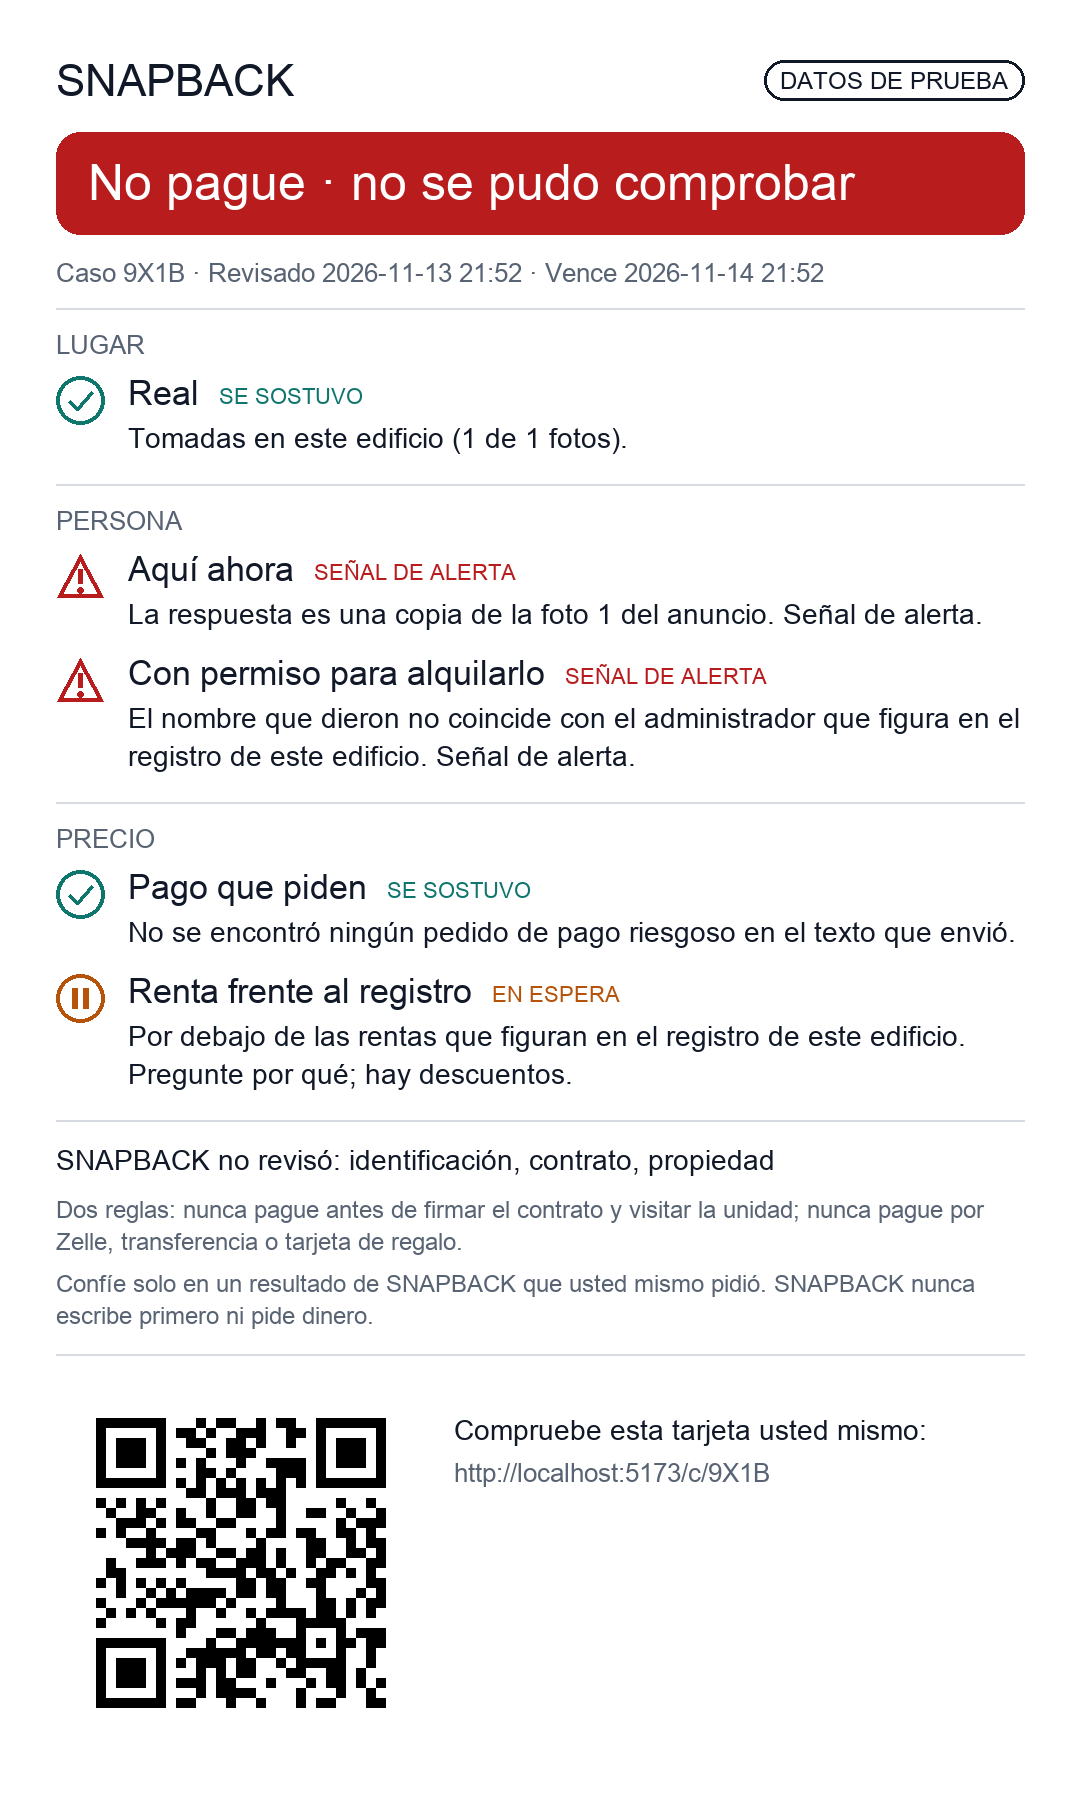
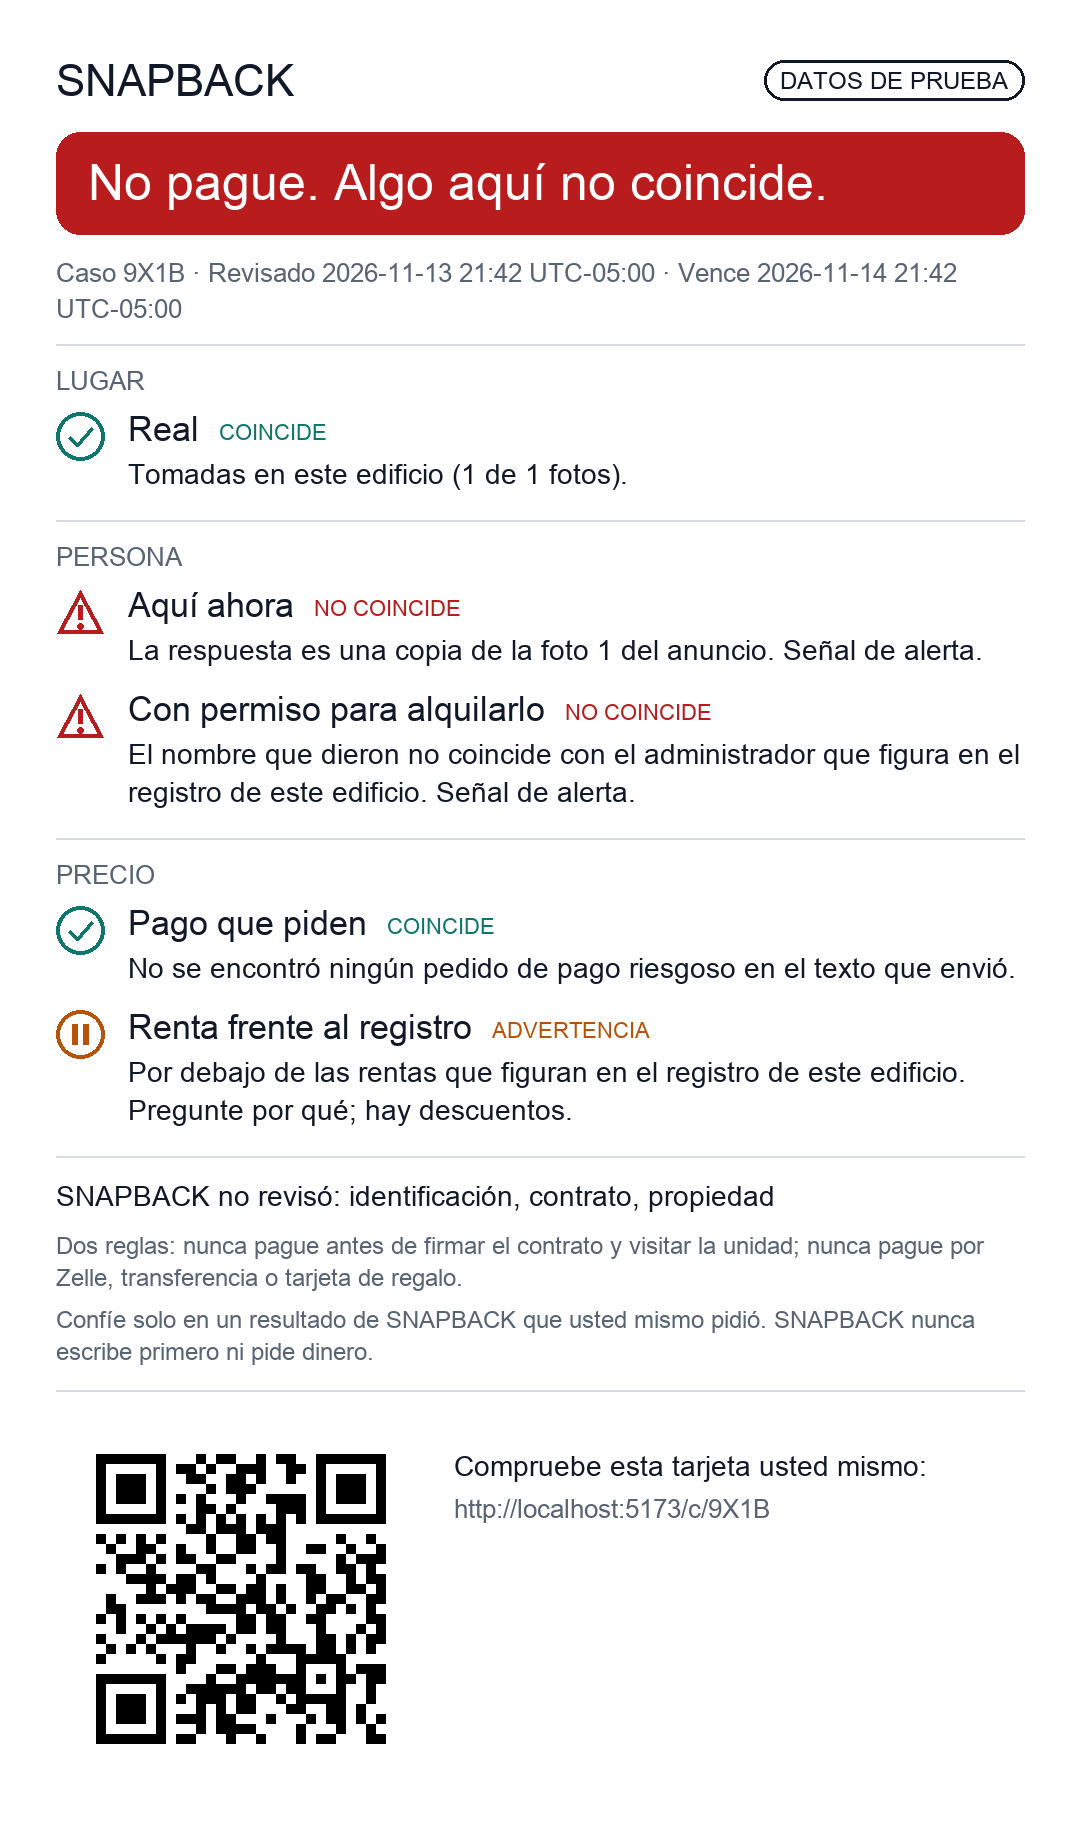
A6: locked card wording for row states and headlines; card time names its zone
- Row states: Matches, Doesn't match, Not confirmed, Warning, Not checked. Headlines: Hold
  off for now / Don't pay. Something here doesn't match. / Checks passed. Still follow the
  two rules. English and Spanish.
- strings.tone_word(tone, row) picks the row state: a red flag is a Warning on the PRICE row
  and Doesn't match elsewhere; a hold is Not confirmed on the PERSON row and a Warning
  elsewhere. So no reply yet is never labelled a mismatch.
- The card's times carry their zone. Both screenshots redrawn from the fixtures.

diff --git a/tests/test_card_render.py b/tests/test_card_render.py
@@ -5,6 +5,7 @@ import json
 import re
 from datetime import datetime
 from pathlib import Path
+from zoneinfo import ZoneInfo
 
 import pytest
 from PIL import Image
@@ -20,7 +21,7 @@ from snapback.card.render import (
     render_card_png,
     wrap,
 )
-from snapback.contracts import Card, CardTone, ModuleEvidence, VerdictState
+from snapback.contracts import Card, CardRowKind, CardTone, ModuleEvidence, VerdictState
 from snapback.verdict import build_card
 
 FIXTURES = Path(__file__).resolve().parent.parent / "fixtures" / "contracts"
@@ -128,6 +129,83 @@ def test_every_tone_has_an_icon_and_a_word_in_both_languages():
     for lang in ("en", "es"):
         words = [strings.text(f"tone.{tone.value}", lang) for tone in CardTone]
         assert len(set(words)) == len(CardTone)
+
+
+LOCKED_ROW_STATES = {"Matches", "Doesn't match", "Not confirmed", "Warning", "Not checked"}
+LOCKED_HEADLINES = {
+    VerdictState.HOLD: "Hold off for now",
+    VerdictState.DONT_PAY: "Don't pay. Something here doesn't match.",
+    VerdictState.VERIFIED: "Checks passed. Still follow the two rules.",
+}
+BEFORE_THE_LOCK = ("Held up", "On hold", "Not shown", "Checks held up", "could not verify")
+
+
+def test_row_states_and_headlines_use_the_locked_wording():
+    # Decisions Fri 22:40, XO review of #59. These words are not to be reworded.
+    for state, words in LOCKED_HEADLINES.items():
+        assert strings.text(f"state.{state.value}") == words
+    said = {strings.tone_word(tone.value, row.value) for tone in CardTone for row in CardRowKind}
+    assert said == LOCKED_ROW_STATES
+    for key, words in strings.TABLES["en"].items():
+        if key.startswith(("tone.", "state.")):
+            assert not any(old in words for old in BEFORE_THE_LOCK), key
+            assert words != "Red flag" and words != "Hold", key
+
+
+@pytest.mark.parametrize(
+    ("tone", "row", "word"),
+    [
+        (CardTone.OK, CardRowKind.PLACE, "Matches"),
+        (CardTone.OK, CardRowKind.PRICE, "Matches"),
+        (CardTone.NOT_SHOWN, CardRowKind.PERSON, "Not confirmed"),
+        (CardTone.NOT_CHECKED, CardRowKind.PRICE, "Not checked"),
+        # A red flag that contradicts the listing, against one that is a risky ask.
+        (CardTone.RED_FLAG, CardRowKind.PLACE, "Doesn't match"),
+        (CardTone.RED_FLAG, CardRowKind.PERSON, "Doesn't match"),
+        (CardTone.RED_FLAG, CardRowKind.PRICE, "Warning"),
+        # No reply yet is nobody's fault: it is not confirmed, and it is not a warning.
+        (CardTone.HOLD, CardRowKind.PERSON, "Not confirmed"),
+        (CardTone.HOLD, CardRowKind.PRICE, "Warning"),
+        (CardTone.HOLD, CardRowKind.PLACE, "Warning"),
+    ],
+)
+def test_the_row_state_follows_the_tone_and_for_two_tones_the_row(tone, row, word):
+    assert strings.tone_word(tone.value, row.value) == word
+
+
+def test_spanish_has_a_row_state_for_everything_english_does():
+    for tone in CardTone:
+        for row in CardRowKind:
+            english = strings.tone_word(tone.value, row.value, "en")
+            spanish = strings.tone_word(tone.value, row.value, "es")
+            assert spanish and spanish != english
+    same_in_english = {(t, r) for t in CardTone for r in CardRowKind}
+    for first in same_in_english:
+        for second in same_in_english:
+            if strings.tone_word(first[0].value, first[1].value) == strings.tone_word(
+                second[0].value, second[1].value
+            ):
+                assert strings.tone_word(first[0].value, first[1].value, "es") == (
+                    strings.tone_word(second[0].value, second[1].value, "es")
+                )
+
+
+def test_waiting_for_a_reply_is_never_labelled_a_mismatch_or_a_warning():
+    raw = json.loads((FIXTURES / "module_evidence_hold.json").read_text())
+    waiting = evidence(challenge=raw["challenge"] | {"presence": "waiting"})
+    card = build_card(waiting, checked_at=CHECKED_AT)
+    person = next(row for row in card.rows if row.kind is CardRowKind.PERSON)
+    here_now = person.lines[0]
+    assert here_now.tone is CardTone.HOLD
+    assert strings.tone_word(here_now.tone.value, person.kind.value) == "Not confirmed"
+
+
+def test_the_card_time_names_its_zone():
+    from snapback.card.render import _stamp
+
+    assert _stamp(CHECKED_AT) == "2026-11-13 21:42 UTC-05:00"
+    houston = CHECKED_AT.astimezone(ZoneInfo("America/Chicago"))
+    assert _stamp(houston) == "2026-11-13 20:42 CST"
 
 
 def test_every_state_has_words_in_both_languages():

diff --git a/src/snapback/card/strings.py b/src/snapback/card/strings.py
@@ -183,15 +183,20 @@ EN: dict[str, str] = {
     "row.place": "PLACE",
     "row.person": "PERSON",
     "row.price": "PRICE",
-    "tone.ok": "Held up",
-    "tone.hold": "On hold",
-    "tone.red_flag": "Red flag",
-    "tone.not_shown": "Not shown",
+    # LOCKED wording (decisions Fri 22:40, XO review of #59). Five row states: Matches,
+    # Doesn't match, Not confirmed, Warning, Not checked. Three headlines. Do not reword.
+    # A row state is chosen by `tone_word`: by the line's tone, and for two tones by its row.
+    "tone.ok": "Matches",
+    "tone.hold": "Warning",
+    "tone.hold.person": "Not confirmed",  # no reply yet is not a warning about anyone
+    "tone.red_flag": "Doesn't match",
+    "tone.red_flag.price": "Warning",  # a risky ask is a warning, not a mismatch
+    "tone.not_shown": "Not confirmed",
     "tone.not_checked": "Not checked",
-    "state.hold": "Hold",
-    "state.dont_pay": "Don't pay · could not verify",
+    "state.hold": "Hold off for now",
+    "state.dont_pay": "Don't pay. Something here doesn't match.",
     "state.unverified": "Could not place these photos",
-    "state.verified": "Checks held up",
+    "state.verified": "Checks passed. Still follow the two rules.",
     "card.case": "Case {case_id}",
     "card.checked": "Checked {time}",
     "card.expires": "Expires {time}",
@@ -410,15 +415,18 @@ ES: dict[str, str] = {
     "row.place": "LUGAR",
     "row.person": "PERSONA",
     "row.price": "PRECIO",
-    "tone.ok": "Se sostuvo",
-    "tone.hold": "En espera",
-    "tone.red_flag": "Señal de alerta",
-    "tone.not_shown": "No demostrado",
+    # The locked English wording, in Spanish. Same keys, same rule for choosing a row state.
+    "tone.ok": "Coincide",
+    "tone.hold": "Advertencia",
+    "tone.hold.person": "Sin confirmar",
+    "tone.red_flag": "No coincide",
+    "tone.red_flag.price": "Advertencia",
+    "tone.not_shown": "Sin confirmar",
     "tone.not_checked": "No comprobado",
-    "state.hold": "En espera",
-    "state.dont_pay": "No pague · no se pudo comprobar",
+    "state.hold": "Espere por ahora",
+    "state.dont_pay": "No pague. Algo aquí no coincide.",
     "state.unverified": "No se pudieron ubicar estas fotos",
-    "state.verified": "Las revisiones se sostuvieron",
+    "state.verified": "Las revisiones pasaron. Siga igual las dos reglas.",
     "card.case": "Caso {case_id}",
     "card.checked": "Revisado {time}",
     "card.expires": "Vence {time}",
@@ -442,3 +450,16 @@ def has(key: str, lang: str = DEFAULT_LANG) -> bool:
 def text(key: str, lang: str = DEFAULT_LANG, **values: object) -> str:
     """The wording for `key`, with `{placeholders}` filled in. A missing key is a bug: KeyError."""
     return _table(lang)[key].format(**values)
+
+
+def tone_word(tone: str, row: str, lang: str = DEFAULT_LANG) -> str:
+    """The locked word shown beside a card line: its row state.
+
+    One word per tone, except where the row changes what the tone means. A red flag on the
+    PRICE row is a risky ask ("Warning"); on PLACE or PERSON it is something that contradicts
+    the listing ("Doesn't match"). A hold on the PERSON row is someone not heard from yet
+    ("Not confirmed"); elsewhere it is something to ask about ("Warning"). `tone` and `row`
+    are the values of `CardTone` and `CardRowKind`.
+    """
+    by_row = f"tone.{tone}.{row}"
+    return text(by_row if has(by_row, lang) else f"tone.{tone}", lang)

diff --git a/src/snapback/card/render.py b/src/snapback/card/render.py
@@ -19,6 +19,7 @@ import os
 import unicodedata
 from collections.abc import Callable
 from dataclasses import dataclass
+from datetime import datetime
 from functools import cache
 
 import qrcode
@@ -225,6 +226,12 @@ def _draw_qr(pen: Pen, url: str, left: int, top: int) -> tuple[int, int, int]:
     return origin_x, origin_y, len(matrix) * QR_MODULE
 
 
+def _stamp(moment: datetime) -> str:
+    """A time with the zone it is in, so a card read in another city is not misread."""
+    zone = moment.tzname()
+    return moment.strftime("%Y-%m-%d %H:%M") + (f" {zone}" if zone else "")
+
+
 def render_card(card: Card) -> RenderedCard:
     lang = card.lang
 
@@ -259,15 +266,11 @@ def render_card(card: Card) -> RenderedCard:
     y += band_height + 24
 
     # Case id and how long the card stands.
-    stamp = "%Y-%m-%d %H:%M"
     meta = "   ·   ".join(
         [
             say("card.case", case_id=card.case_id),
-            say("card.checked", time=card.checked_at.strftime(stamp)),
-            say(
-                "card.expires",
-                time=card.expires_at.astimezone(card.checked_at.tzinfo).strftime(stamp),
-            ),
+            say("card.checked", time=_stamp(card.checked_at)),
+            say("card.expires", time=_stamp(card.expires_at.astimezone(card.checked_at.tzinfo))),
         ]
     )
     y = _paragraph(pen, meta, 26, MUTED, MARGIN, y, CONTENT) + 14
@@ -284,7 +287,8 @@ def render_card(card: Card) -> RenderedCard:
             label = drawable(item.label)
             pen.text((TEXT_LEFT, y - 2), label, fill=INK, font=_font(34))
             tone_x = TEXT_LEFT + pen.textlength(label, font=_font(34)) + 20
-            tone_word = drawable(say(f"tone.{item.tone.value}").upper())
+            word = strings.tone_word(item.tone.value, row.kind.value, lang)
+            tone_word = drawable(word.upper())
             pen.text((tone_x, y + 8), tone_word, fill=colour, font=_font(22))
             y = _paragraph(pen, item.text, 28, INK, TEXT_LEFT, y + 46, WIDTH - MARGIN - TEXT_LEFT)
             y += 20
